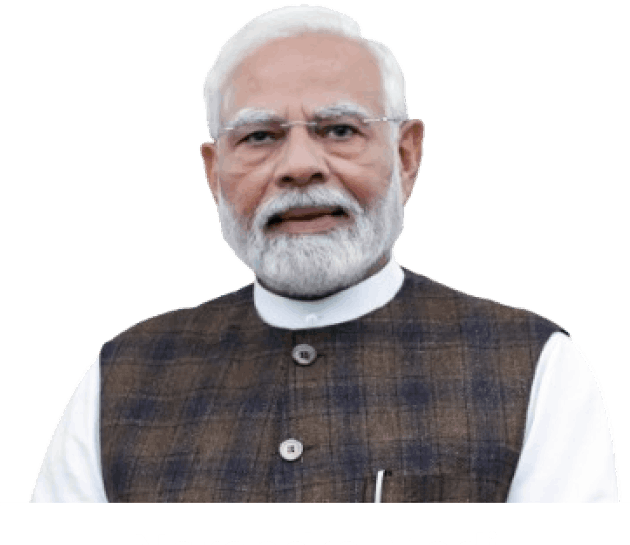
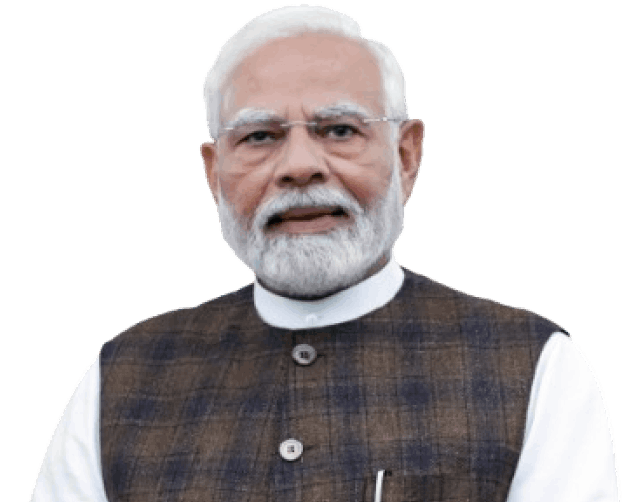
posters changed

diff --git a/src/components/delegate/DelegateHome.tsx b/src/components/delegate/DelegateHome.tsx
@@ -211,7 +211,7 @@ export const DelegateHome: React.FC = () => {
   };
 
   return (
-    <div className="flex-1 px-3 pt-2 pb-3 space-y-3 bg-[#F8F7F4] overflow-y-auto select-none">
+    <div className="flex-1 min-h-0 h-full px-3 pt-2 pb-3 space-y-3 bg-[#F8F7F4] overflow-y-auto select-none">
       {/* Top Greeting & Attendee Identity Header */}
       <div className="pt-2 pb-1">
         <div className="flex items-center justify-between">
@@ -261,15 +261,15 @@ export const DelegateHome: React.FC = () => {
           className="flex transition-transform duration-500 ease-in-out"
           style={{ transform: `translateX(-${activeSlide * 100}%)` }}
         >
-          {/* Slide 1: BTS26 Live Event Card */}
-          <div className="w-full flex-shrink-0 p-3.5 pb-3.5 relative min-h-[136px] bg-gradient-to-br from-[#18181B] via-[#222226] to-[#2E2E33]">
+          {/* Slide 1: BTS26 Live Event Card (Dark Theme matching Slide 3) */}
+          <div className="w-full flex-shrink-0 p-3.5 pb-3.5 relative min-h-[148px] bg-gradient-to-br from-[#18181B] via-[#161C28] to-[#0F172A] select-none flex flex-col justify-between">
             <div className="flex items-center justify-between mb-1.5">
-              <span className="text-[10.5px] font-bold text-white bg-[#27272A] px-2 py-0.5 rounded-md">
+              <span className="text-[10px] font-bold tracking-wider text-slate-300 bg-white/10 px-2 py-0.5 rounded-md border border-white/10">
                 {event.id}
               </span>
-              <div className="flex items-center gap-1.5 bg-[#E5E7EB] text-[#1F2937] px-2.5 py-0.5 rounded-full shadow-xs">
-                <span className="w-1.5 h-1.5 rounded-full bg-[#6B7280]" />
-                <span className="text-[10px] font-bold uppercase tracking-wider">
+              <div className="flex items-center gap-1.5 text-[9.5px] font-bold text-[#38BDF8] bg-[#0284C7]/20 border border-[#38BDF8]/40 px-2.5 py-0.5 rounded-full shadow-sm">
+                <span className="w-1.5 h-1.5 rounded-full bg-[#38BDF8] animate-pulse" />
+                <span className="tracking-wider">
                   UPCOMING
                 </span>
               </div>
@@ -279,44 +279,110 @@ export const DelegateHome: React.FC = () => {
               {event.name}
             </h2>
 
-            <div className="mt-1.5 text-[11.5px] text-[#A1A1AA] space-y-1">
+            <div className="mt-1.5 text-[11.5px] text-[#94A3B8] space-y-1">
               <div className="flex items-center gap-1.5 truncate">
-                <MapPin className="w-3.5 h-3.5 flex-shrink-0 text-[#9CA3AF]" />
+                <MapPin className="w-3.5 h-3.5 flex-shrink-0 text-[#38BDF8]" />
                 <span className="truncate">
                   {event.venue.includes(event.city) ? event.venue : `${event.venue}, ${event.city}`}
                 </span>
               </div>
               <div className="flex items-center gap-1.5">
-                <Calendar className="w-3.5 h-3.5 flex-shrink-0 text-[#9CA3AF]" />
+                <Calendar className="w-3.5 h-3.5 flex-shrink-0 text-[#38BDF8]" />
                 <span>{event.dates}</span>
               </div>
             </div>
 
             <div className="mt-2.5 flex items-center gap-1.5 text-[11px] whitespace-nowrap overflow-x-auto no-scrollbar pb-0.5 pr-14">
-              <span className="bg-[#27272A] text-[#E5E7EB] px-2 py-0.5 rounded-md shrink-0">
-                <strong>{event.totalRegistered || attendees.length}</strong> attendees
+              <span className="bg-[#1E293B]/70 border border-slate-700/60 text-slate-300 px-2 py-0.5 rounded-md shrink-0">
+                <strong className="text-white font-semibold">{event.totalRegistered || attendees.length}</strong> attendees
               </span>
-              <span className="bg-[#27272A] text-[#E5E7EB] px-2 py-0.5 rounded-md shrink-0">
-                <strong>40+</strong> speakers
+              <span className="bg-[#1E293B]/70 border border-slate-700/60 text-slate-300 px-2 py-0.5 rounded-md shrink-0">
+                <strong className="text-white font-semibold">40+</strong> speakers
               </span>
-              <span className="bg-[#27272A] text-[#E5E7EB] px-2 py-0.5 rounded-md shrink-0">
-                <strong>50+</strong> exhibitors
+              <span className="bg-[#1E293B]/70 border border-slate-700/60 text-slate-300 px-2 py-0.5 rounded-md shrink-0">
+                <strong className="text-white font-semibold">50+</strong> exhibitors
               </span>
             </div>
           </div>
 
-          {/* Slide 2: MPSS26 Official Leadership Poster (Dark Blue Theme) */}
-          <div className="w-full flex-shrink-0 relative min-h-[136px] bg-[#020817] flex items-center justify-center overflow-hidden">
-            <img
-              src="/images/banners/mpss26-summit-darkblue.png"
-              alt="Madhya Pradesh Semiconductor Summit 2026 - Building the Semiconductor Ecosystem of Madhya Pradesh"
-              className="w-full h-full min-h-[136px] max-h-[180px] object-contain select-none pointer-events-none"
-            />
+          {/* Slide 2: MPSS26 Official Leadership Poster (Native Theme matching Slide 3) */}
+          <div className="w-full flex-shrink-0 p-3 sm:p-3.5 relative min-h-[148px] bg-gradient-to-br from-[#18181B] via-[#161C28] to-[#0F172A] select-none flex flex-col justify-between overflow-hidden">
+            {/* Ambient Background Glows */}
+            <div className="absolute inset-0 bg-[radial-gradient(circle_at_center,rgba(56,189,248,0.08)_0%,transparent_70%)] pointer-events-none" />
+            <div className="absolute -top-10 -left-10 w-28 h-28 bg-[#38BDF8]/10 rounded-full blur-2xl pointer-events-none" />
+            <div className="absolute -bottom-10 -right-10 w-28 h-28 bg-[#FBBF24]/10 rounded-full blur-2xl pointer-events-none" />
+
+            {/* Top Row: Badges matching Slide 3 */}
+            <div className="relative z-10 flex items-center justify-between mb-0.5">
+              <span className="text-[10px] font-bold tracking-wider text-slate-300 bg-white/10 px-2 py-0.5 rounded-md border border-white/10">
+                MPSS 2026
+              </span>
+              <div className="flex items-center gap-1 text-[9.5px] font-bold text-[#38BDF8] bg-[#0284C7]/20 border border-[#38BDF8]/40 px-2.5 py-0.5 rounded-full shadow-sm">
+                <span>LEADERSHIP VISION</span>
+              </div>
+            </div>
+
+            {/* Main Content: Left Leader, Center Summit Branding & Tagline, Right Leader - 100% Mathematically Symmetric & Centered */}
+            <div className="relative z-10 grid grid-cols-[1fr_auto_1fr] items-center gap-1 my-auto px-2 sm:px-3">
+              {/* Left Leader: Narendra Modi */}
+              <div className="flex flex-col items-center justify-center text-center">
+                <div className="relative w-[56px] sm:w-[64px] h-[70px] sm:h-[76px] flex items-end justify-center overflow-hidden">
+                  <img
+                    src="/images/banners/modi-cutout.png?v=7"
+                    alt="Narendra Modi"
+                    className="max-h-full max-w-full object-contain drop-shadow-md select-none pointer-events-none"
+                  />
+                </div>
+                <p className="text-[8.5px] sm:text-[9.5px] font-bold text-white leading-tight whitespace-nowrap mt-1 text-center">
+                  Narendra Modi
+                </p>
+                <p className="text-[6px] sm:text-[6.5px] text-[#94A3B8] leading-[1.15] mt-0.5 text-center max-w-[68px] sm:max-w-[76px]">
+                  Hon&apos;ble Prime Minister, India
+                </p>
+              </div>
+
+              {/* Center: Summit Title & Tagline - Single Line "MADHYA PRADESH", Zero Dead Space */}
+              <div className="flex flex-col items-center justify-center text-center px-1">
+                <h2 className="text-[15px] sm:text-[16.5px] font-black tracking-wide text-white uppercase whitespace-nowrap leading-none drop-shadow-sm">
+                  MADHYA PRADESH
+                </h2>
+                <h1 className="text-[12.5px] sm:text-[14px] font-black text-[#38BDF8] tracking-tight uppercase whitespace-nowrap leading-tight my-1 drop-shadow-md">
+                  SEMICONDUCTOR SUMMIT
+                </h1>
+                <span className="text-[11px] sm:text-[12px] font-black text-white tracking-[0.22em] leading-none mb-1 drop-shadow-sm">
+                  2026
+                </span>
+
+                {/* Slogan Pill matching Slide 3 sector pill style */}
+                <div className="bg-[#1E293B]/85 border border-slate-700/70 rounded-md px-2 py-0.5 shadow-sm max-w-[165px] sm:max-w-[185px]">
+                  <p className="text-[6.8px] sm:text-[7.5px] font-semibold text-[#FBBF24] leading-tight text-center">
+                    Building the Semiconductor Ecosystem of Madhya Pradesh
+                  </p>
+                </div>
+              </div>
+
+              {/* Right Leader: Dr. Mohan Yadav */}
+              <div className="flex flex-col items-center justify-center text-center">
+                <div className="relative w-[56px] sm:w-[64px] h-[70px] sm:h-[76px] flex items-end justify-center overflow-hidden">
+                  <img
+                    src="/images/banners/yadav-cutout.png?v=7"
+                    alt="Dr. Mohan Yadav"
+                    className="max-h-full max-w-full object-contain drop-shadow-md select-none pointer-events-none"
+                  />
+                </div>
+                <p className="text-[8.5px] sm:text-[9.5px] font-bold text-white leading-tight whitespace-nowrap mt-1 text-center">
+                  Dr. Mohan Yadav
+                </p>
+                <p className="text-[6px] sm:text-[6.5px] text-[#94A3B8] leading-[1.15] mt-0.5 text-center max-w-[68px] sm:max-w-[76px]">
+                  Hon&apos;ble Chief Minister, MP
+                </p>
+              </div>
+            </div>
           </div>
 
           {/* Slide 3: Exhibition & Showcase (Dark Theme - Top 4 Sectors Compact) */}
           <div 
-            className="w-full flex-shrink-0 p-3.5 pb-3.5 relative min-h-[136px] bg-gradient-to-br from-[#18181B] via-[#161C28] to-[#0F172A] select-none"
+            className="w-full flex-shrink-0 p-3.5 pb-3.5 relative min-h-[148px] bg-gradient-to-br from-[#18181B] via-[#161C28] to-[#0F172A] select-none flex flex-col justify-between"
           >
             {/* Header row with badge */}
             <div className="flex items-center justify-between mb-1.5">

diff --git a/src/components/delegate/DelegateSpeakers.tsx b/src/components/delegate/DelegateSpeakers.tsx
@@ -51,9 +51,9 @@ export const DelegateSpeakers: React.FC = () => {
   };
 
   return (
-    <div className="flex-1 bg-[#F8F7F4] flex flex-col h-full overflow-hidden">
+    <div className="flex-1 min-h-0 bg-[#F8F7F4] flex flex-col h-full overflow-hidden">
       {/* Header */}
-      <div className="pt-4 pb-3 px-4 bg-[#F8F7F4] flex-shrink-0 sticky top-0 z-10">
+      <div className="pt-4 pb-3 px-4 bg-[#F8F7F4] flex-shrink-0 z-10">
         <div className="flex items-center gap-3 mb-3.5">
           <button 
             onClick={() => setActiveDelegateTab('home')}
@@ -78,7 +78,7 @@ export const DelegateSpeakers: React.FC = () => {
       </div>
 
       {/* Grid of 2 Columns */}
-      <div className="flex-1 overflow-y-auto px-4 pb-24 no-scrollbar">
+      <div className="flex-1 min-h-0 overflow-y-auto px-4 pb-4 no-scrollbar">
         <div className="flex items-center justify-between mt-3 mb-2.5 px-0.5">
           <p className="text-[13.5px] font-bold text-[#1F2937]">
             {filteredSpeakers.length === speakers.length
@@ -90,7 +90,7 @@ export const DelegateSpeakers: React.FC = () => {
           </span>
         </div>
 
-        <div className="grid grid-cols-2 gap-3 pb-8">
+        <div className="grid grid-cols-2 gap-3">
           {filteredSpeakers.map((speaker) => {
             const connected = isConnected(speaker.id);
             const pending = isPending(speaker.id);

diff --git a/src/app/page.tsx b/src/app/page.tsx
@@ -119,7 +119,7 @@ export default function App() {
           {role === 'delegate' ? (
               /* Delegate Experience */
               <div className="flex-1 flex flex-col h-full overflow-hidden">
-                <div className="flex-1 flex flex-col overflow-y-auto overscroll-contain no-scrollbar">
+                <div className="flex-1 flex flex-col min-h-0 h-full overflow-hidden">
                   {activeDelegateTab === 'home' && <DelegateHome />}
                   {activeDelegateTab === 'people' && <DelegatePeople />}
                   {(activeDelegateTab === 'focus' || activeDelegateTab === 'scan') && <DelegateFocus />}

diff --git a/src/components/delegate/DelegateProfile.tsx b/src/components/delegate/DelegateProfile.tsx
@@ -36,7 +36,7 @@ export const DelegateProfile: React.FC<DelegateProfileProps> = () => {
   const profileCompletion = calculateProfileCompletion(currentUser); 
 
   return (
-    <div className="flex-1 bg-[#F8F7F4] select-none overflow-y-auto px-3 pt-1.5 pb-20 space-y-2">
+    <div className="flex-1 min-h-0 h-full bg-[#F8F7F4] select-none overflow-y-auto px-3 pt-1.5 pb-4 space-y-2">
       {/* Header matching directory & schedule typography */}
       <div className="pt-2 pb-1">
         <p className="text-[10.5px] uppercase tracking-[0.15em] text-[#6B6B6B] font-semibold mb-0.5">MPSS26 · DELEGATE</p>

diff --git a/src/components/delegate/DelegateSchedule.tsx b/src/components/delegate/DelegateSchedule.tsx
@@ -207,7 +207,7 @@ export const DelegateSchedule: React.FC = () => {
     const sessionSpeakers = resolveSessionSpeakers(activeSession);
 
     return (
-      <div ref={scrollRef} className="flex-1 bg-[#F8F7F4] select-none overflow-y-auto pb-16">
+      <div ref={scrollRef} className="flex-1 bg-[#F8F7F4] select-none overflow-y-auto pb-4">
         {/* Stage Hero Image Section */}
         <div
           className="relative h-[210px] w-full bg-cover bg-center overflow-hidden flex flex-col justify-between p-3 select-none"

diff --git a/src/components/delegate/DelegatePolls.tsx b/src/components/delegate/DelegatePolls.tsx
@@ -90,7 +90,7 @@ export const DelegatePolls: React.FC = () => {
       </div>
 
       {/* Main Content Area - Reduced Padding to fit fully on mobile view */}
-      <div className="flex-1 overflow-y-auto px-3.5 py-2.5 pb-16">
+      <div className="flex-1 overflow-y-auto px-3.5 py-2.5 pb-3">
         <div className="max-w-md mx-auto">
           {/* Poll Card - Reduced padding & compact typography */}
           <div className="bg-white rounded-2xl p-3.5 sm:p-4.5 border border-slate-200/90 shadow-xs">

diff --git a/src/components/delegate/DelegateSupport.tsx b/src/components/delegate/DelegateSupport.tsx
@@ -32,7 +32,7 @@ export const DelegateSupport: React.FC = () => {
       </div>
 
       {/* Content: Helpdesk Hotlines only */}
-      <div className="flex-1 overflow-y-auto px-3 py-3 pb-24 space-y-3">
+      <div className="flex-1 overflow-y-auto px-3 py-3 pb-3 space-y-3">
         {/* Helpdesk Hotlines Card */}
         <div className="bg-white p-4 rounded-[16px] border border-[#DEDCD7] shadow-xs space-y-3.5">
           <div className="flex items-center justify-between">

diff --git a/src/components/delegate/DelegateEditProfile.tsx b/src/components/delegate/DelegateEditProfile.tsx
@@ -102,7 +102,7 @@ export const DelegateEditProfile: React.FC = () => {
         </button>
       </div>
 
-      <div className="p-3 pb-24 overflow-y-auto space-y-3">
+      <div className="p-3 pb-4 overflow-y-auto space-y-3">
         
         {/* Compact Profile Completion */}
         <div className="bg-white py-2 px-3 rounded-[12px] border border-[#E5E7EB] shadow-xs">

diff --git a/src/components/delegate/DelegateCompanyDetail.tsx b/src/components/delegate/DelegateCompanyDetail.tsx
@@ -85,7 +85,7 @@ Generated via EventSphere Official App (MPSS26)
         </button>
       </div>
 
-      <div className="px-4 pb-16 space-y-3">
+      <div className="px-4 pb-4 space-y-3">
         {/* Main Card */}
         <div className="bg-white rounded-[14px] border border-[#DEDCD7] p-3 shadow-sm">
           <div className="flex justify-between items-start mb-2">

diff --git a/src/components/delegate/DelegateAIRecommendations.tsx b/src/components/delegate/DelegateAIRecommendations.tsx
@@ -45,7 +45,7 @@ export const DelegateAIRecommendations: React.FC = () => {
   };
 
   return (
-    <div className="flex-1 bg-white pb-20 overflow-y-auto">
+    <div className="flex-1 min-h-0 h-full bg-white pb-4 overflow-y-auto">
       {/* Header */}
       <div className="p-3 bg-white sticky top-0 z-10">
         <div className="flex items-center gap-2 mb-2 mt-2">

diff --git a/src/components/delegate/DelegateSponsors.tsx b/src/components/delegate/DelegateSponsors.tsx
@@ -34,7 +34,7 @@ export const DelegateSponsors: React.FC = () => {
         </div>
       </div>
 
-      <div className="px-4 pb-16 space-y-3">
+      <div className="px-4 pb-4 space-y-3">
         {/* Title Sponsor */}
         <section>
           <h2 className="text-[12px] font-bold text-[#B51F32] uppercase tracking-wider mb-2 text-center">Title Sponsor</h2>
